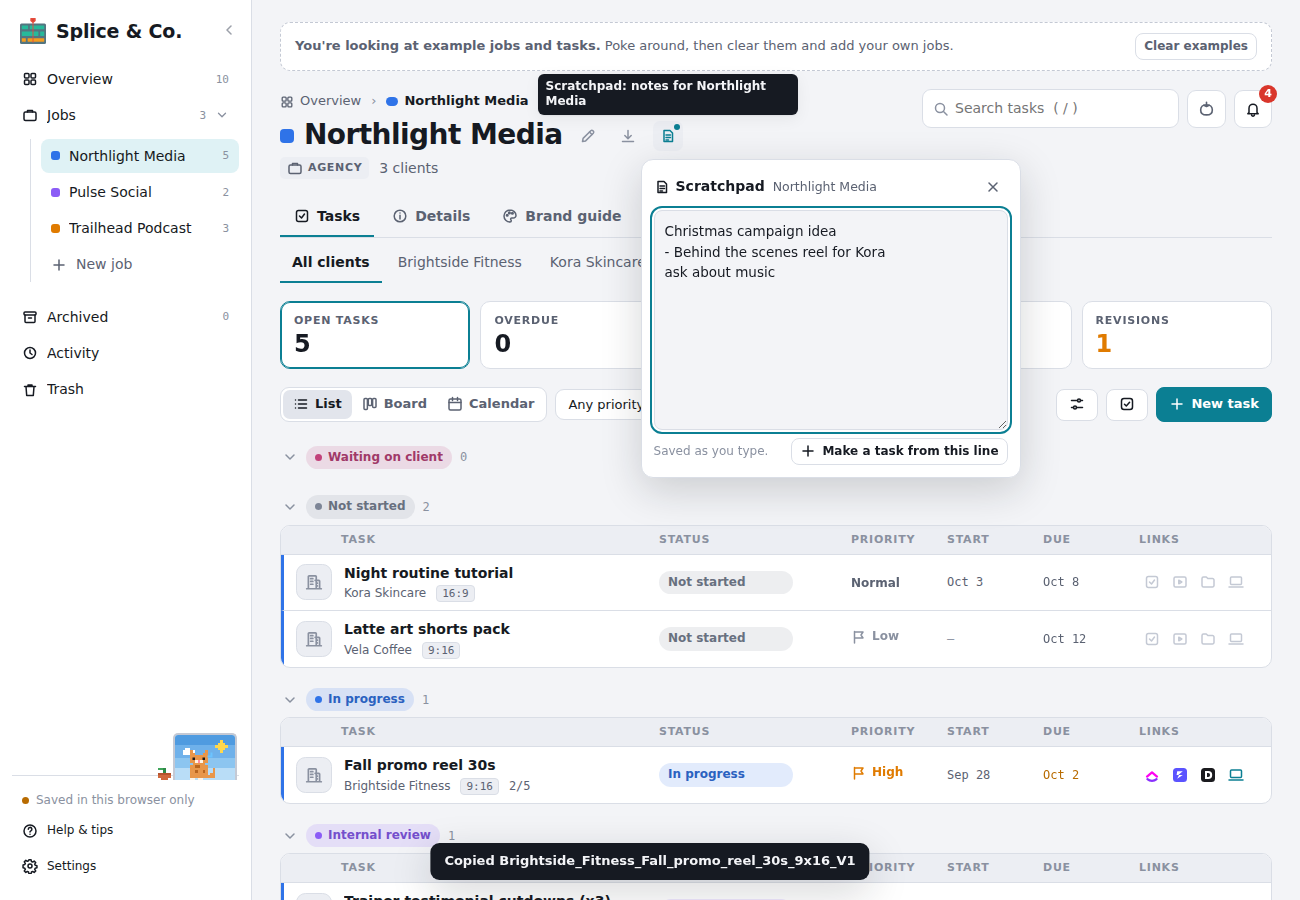
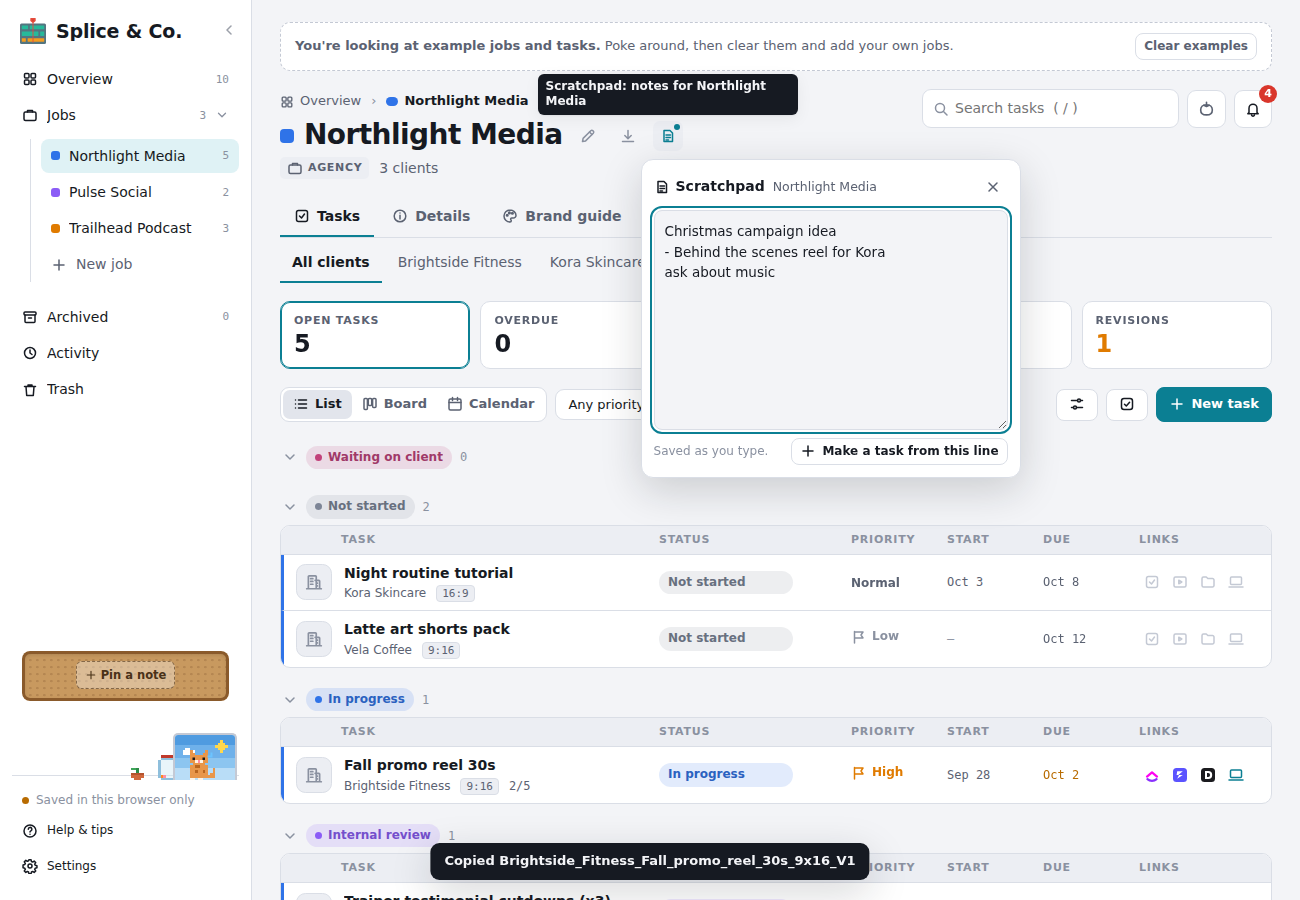
Cat naps on tasks, treat jar, sill pets, cat peeks at updates, sidebar cork board
Claude-Session: https://claude.ai/code/session_01TFxvnWxcLoMJJtEyX7BRSd

Changed region(s): [[0.0, 0.7156, 0.1846, 0.7778], [0.0923, 0.84, 0.1538, 0.8711]]

diff --git a/index.html b/index.html
@@ -1515,6 +1515,46 @@ body.side-mini .office-cat{display:none}
 .sp-foot{display:flex;align-items:center;gap:8px;justify-content:space-between;flex-wrap:wrap}
 @media (max-width:820px){.scratch-pop{left:12px!important;right:12px;width:auto;top:auto!important;bottom:calc(76px + env(safe-area-inset-bottom))}}
 @media (display-mode: window-controls-overlay){.scratch-pop{app-region:no-drag}}
+.sill-jar,.sill-pet{position:relative;padding:0;border:0;background:none;cursor:pointer;flex:none;display:block}
+.sill-jar[hidden],.sill-pet[hidden]{display:none}
+.sill-jar svg{width:17.5px;height:25px;display:block}
+.sill-pet svg{display:block}
+.pet-puppy svg{width:29px;height:27px}.pet-hamster svg{width:23px;height:21px}.pet-fish svg{width:28px;height:26px}
+.pet-tail{transform-box:fill-box;transform-origin:0% 100%;animation:petWag .5s ease-in-out infinite alternate}
+@keyframes petWag{from{transform:rotate(-14deg)}to{transform:rotate(14deg)}}
+.pet-hamster .pet-body{transform-box:fill-box;transform-origin:50% 100%;animation:petBreathe 1.6s ease-in-out infinite}
+@keyframes petBreathe{0%,100%{transform:scale(1,1)}50%{transform:scale(1.03,.97)}}
+.pet-fish{transform-box:fill-box;transform-origin:center;animation:petSwim 7s ease-in-out infinite}
+@keyframes petSwim{0%{transform:translateX(0) scaleX(1)}45%{transform:translateX(3px) scaleX(1)}50%{transform:translateX(3px) scaleX(-1)}95%{transform:translateX(-1px) scaleX(-1)}100%{transform:translateX(0) scaleX(1)}}
+.cat-sill.sleepy .pet-tail,.cat-sill.sleepy .pet-body{animation-play-state:paused}
+:root[data-motion="reduce"] .pet-tail,:root[data-motion="reduce"] .pet-body,:root[data-motion="reduce"] .pet-fish{animation:none}
+.sill-pet .cat-bubble{color:var(--accent)}
+.pet-lock{font-size:calc(18px*var(--ts))}
+.office-cat.away .cat-body,.office-cat.away .cat-notes,.office-cat.away .cat-z{visibility:hidden}
+.nap-cat{position:fixed;z-index:15;width:58px;height:29px;padding:0;border:0;background:none;cursor:pointer}
+.nap-cat svg{width:58px;height:29px;display:block;filter:drop-shadow(0 1px 1px rgba(0,0,0,.25))}
+.nap-cat .cat-z{display:block;right:-8px;top:-10px}
+.nap-cat .cat-bubble{top:-16px}
+.tl-note{position:relative}
+.peek-cat{position:absolute;right:22px;top:-17px;width:25px;height:17px;overflow:hidden;pointer-events:none;z-index:2}
+.peek-cat svg{width:25px;height:17.5px;display:block;transform:translateY(100%)}
+.cork{margin:auto 10px 8px;padding:10px 8px 12px;border-radius:8px;display:flex;flex-wrap:wrap;gap:8px 6px;justify-content:center;align-items:flex-start;
+  background:#c8995f radial-gradient(circle at 20% 30%,rgba(90,50,20,.18) 0 1px,transparent 1.5px) 0 0/7px 7px;box-shadow:inset 0 0 0 3px #8a5a2b,inset 0 2px 6px rgba(0,0,0,.25)}
+.cork.with-cat{margin-bottom:56px}
+.cork .polaroid{width:48px}.cork .polaroid img{width:40px;height:40px}
+.sticky{position:relative;width:62px;min-height:54px;padding:10px 5px 5px;transform:rotate(var(--r));box-shadow:0 2px 4px rgba(0,0,0,.22);display:flex}
+.sticky.s-yellow{background:#fff3a3}.sticky.s-pink{background:#ffc9de}.sticky.s-blue{background:#c7e5ff}.sticky.s-green{background:#cdf2c4}
+.sticky .pin{position:absolute;left:50%;top:-3px;width:8px;height:8px;margin-left:-4px;border-radius:50%;background:#e5484d;box-shadow:0 1px 1px rgba(0,0,0,.35),inset -1px -1px 0 rgba(0,0,0,.2)}
+.st-text{flex:1;border:0;background:none;padding:0;text-align:left;font:500 calc(11px*var(--ts))/1.25 var(--body);color:#3a3326;overflow-wrap:anywhere;cursor:text;min-height:38px}
+.sticky textarea{flex:1;width:100%;border:0;background:rgba(255,255,255,.35);resize:none;font:500 calc(11px*var(--ts))/1.25 var(--body);color:#3a3326;padding:1px 2px;border-radius:2px}
+.st-x{position:absolute;right:1px;top:1px;width:15px;height:15px;padding:0;border:0;background:none;color:#6b5f48;opacity:0;cursor:pointer;display:grid;place-items:center}
+.st-x .i{width:10px;height:10px}
+.sticky:hover .st-x,.st-x:focus-visible{opacity:1}
+@media (hover:none){.st-x{opacity:.7}}
+.cork-add{align-self:center;display:flex;align-items:center;gap:4px;border:1px dashed rgba(60,35,10,.55);background:rgba(255,255,255,.35);color:#4a3218;border-radius:6px;padding:6px 8px;font:600 calc(11.5px*var(--ts)) var(--body);cursor:pointer}
+.cork-add .i{width:12px;height:12px}
+body.side-mini .cork{display:none}
+.cork + .side-foot{margin-top:0}
 .office-cat .cat-phones{display:none}
 .office-cat.focus .cat-phones{display:inline}
 .office-cat.focus .cat-body{animation:catNod 1.1s ease-in-out infinite}
@@ -1849,7 +1889,7 @@ const MONTH_FULL=['January','February','March','April','May','June','July','Augu
 const PREF_DEF={dateRel:false,dateFmt:'md',weekStart:'mon',hideWeekends:false,confetti:true,motion:'system',contrast:'normal',trashDays:30,darkShade:'standard',pillStyle:'tint',tips:true,
   iconWeight:'regular',depth:'soft',sideStyle:'colored',thinScroll:false,toastPos:'bottom',nameWrap:false,doneStyle:'struck',overdueTint:false,statusIcons:false,prioColors:{},logoShape:'rounded',numFont:'mono',readSpacing:'normal',sideCounts:true,
   compactHeader:false,greeting:true,greetName:'',drawerBand:true,boardTint:false,dueStyle:'text',jobProgress:'bar',calGrid:'lines',todayMark:'dot',
-  pomoFocus:25,pomoShort:5,pomoLong:15,pomoEvery:4,pomoAutoBreak:false,pomoAutoFocus:false,pomoSound:'chime',pomoPopup:false,allClear:true,seasonal:true,officeCat:true,catSky:true,catPlant:true,plantGoal:20,catVisitors:true};
+  pomoFocus:25,pomoShort:5,pomoLong:15,pomoEvery:4,pomoAutoBreak:false,pomoAutoFocus:false,pomoSound:'chime',pomoPopup:false,allClear:true,seasonal:true,officeCat:true,catSky:true,catPlant:true,plantGoal:20,catVisitors:true,catNaps:true,catTreats:true,catPeek:true,sillPet:'none',corkBoard:true};
 const pref=k=>{let o=null;try{o=SM}catch(e){/* Settings state not set up yet */}o=o||S.settings?.app||{};return o[k]!==undefined&&o[k]!==null?o[k]:PREF_DEF[k]};
 const reducedMotion=()=>pref('motion')==='reduce'||matchMedia('(prefers-reduced-motion:reduce)').matches;
 function absDate(s){
@@ -2490,7 +2530,7 @@ function render(){
   document.title=(a.name||'').trim()||APP_NAME;pomoTitle();
   const fav=$('#favicon'),want=imgSrc(a.logo)||APP_LOGO;if(fav&&fav.getAttribute('href')!==want){fav.setAttribute('href',want);fav.removeAttribute('type')}
   withFocus(()=>{renderSide();renderMain()});
-  renderBell();renderBulk();applyDrawerW();applySideW();renderTabbar();syncUrl();renderPip();renderPomo();appBadge();
+  renderBell();renderBulk();applyDrawerW();applySideW();renderTabbar();syncUrl();renderPip();renderPomo();appBadge();napPlace();
   if(S.ready&&!SEASON_RAN){SEASON_RAN=true;setTimeout(()=>seasonFx(),900)}
 }
 
@@ -2511,7 +2551,7 @@ function renderSide(){
   }
   html+=`<button class="nav-item nav-new" data-act="new-job"${tt('New job')}>${I.plus}<span class="name">New job</span></button></nav>
   <nav class="nav" aria-label="More"><button class="nav-item ${u.tab==='archived'?'on':''}" data-act="nav" data-tab="archived"${tt('Archived')}>${I.archive}<span class="name">Archived</span><span class="count">${S.ready?archived().length:''}</span></button><button class="nav-item ${u.tab==='activity'?'on':''}" data-act="nav" data-tab="activity"${tt('Activity')}>${I.clock}<span class="name">Activity</span></button><button class="nav-item ${u.tab==='trash'?'on':''}" data-act="nav" data-tab="trash"${tt('Trash')}>${I.trash}<span class="name">Trash</span><span class="count">${S.ready&&trashed().length?trashed().length:''}</span></button></nav>
-  ${u.sideMini?'':photoStripHtml()}
+  ${u.sideMini?'':corkHtml()}
   <div class="side-foot"><span class="save-state" title="${B.mode==='local'?'Saved in this browser only':'Saved to your account'}">${B.mode==='cloud'&&(B.offline||Object.keys(OUT).length)?`<span class="sync-dot local"></span>Offline · ${Object.keys(OUT).length?`${Object.keys(OUT).length} change${Object.keys(OUT).length===1?'':'s'} waiting to sync`:'changes will sync'}`:B.mode==='db'||B.mode==='cloud'?'<span class="sync-dot"></span>Saved to your account':B.mode==='local'?'<span class="sync-dot local"></span>Saved in this browser only':'Loading…'}</span>
     ${B.mode==='cloud'&&B.syncedAt?`<small class="synced" title="Last time this device heard back from your account">Last synced ${syncedAgo()}</small>`:''}
     <button class="nav-item foot-settings ${u.tab==='help'?'on':''}" data-act="nav" data-tab="help"${tt('Help & tips')}>${HELP_IC}<span class="name">Help &amp; tips</span></button>
@@ -3132,7 +3172,7 @@ function renderArchive(){
 
 /* ================= drawer ================= */
 let deleteArmed=false, clearArmed=false;
-function openTask(id,tab){seenTask(id);if(NOTES_EDIT!==id)NOTES_EDIT=null;if(S.tasks[id]&&!S.tasks[id]._draft){S.ui.recent=[id,...(S.ui.recent||[]).filter(x=>x!==id)].slice(0,8);saveUi()}if(S.ui.openTask!==id)TPL={open:false,naming:false,del:null};if(DRAFT&&DRAFT.id!==id)discardDraft();if(S.ui.openTask!==id||tab)S.ui.dtab=tab||'details';if(S.ui.openTask!==id){NEWCL=null;REACT_AT=null;REPLY_AT=null;replyDelArmed=null;EDIT_AT=null;SPLIT=null;if(ATT.task&&ATT.task!==id)attReset()}S.ui.openTask=id;noteDelArmed=null;deleteArmed=false;renderDrawer();$('#drawer').hidden=false;$('#scrim').hidden=false;autosize($('.d-name'));scheduleRender();syncUrl()}
+function openTask(id,tab){seenTask(id);if(NAP&&NAP.id===id)napEnd('wake');if(NOTES_EDIT!==id)NOTES_EDIT=null;if(S.tasks[id]&&!S.tasks[id]._draft){S.ui.recent=[id,...(S.ui.recent||[]).filter(x=>x!==id)].slice(0,8);saveUi()}if(S.ui.openTask!==id)TPL={open:false,naming:false,del:null};if(DRAFT&&DRAFT.id!==id)discardDraft();if(S.ui.openTask!==id||tab)S.ui.dtab=tab||'details';if(S.ui.openTask!==id){NEWCL=null;REACT_AT=null;REPLY_AT=null;replyDelArmed=null;EDIT_AT=null;SPLIT=null;if(ATT.task&&ATT.task!==id)attReset()}S.ui.openTask=id;noteDelArmed=null;deleteArmed=false;renderDrawer();$('#drawer').hidden=false;$('#scrim').hidden=false;autosize($('.d-name'));scheduleRender();syncUrl()}
 function closeDrawer(){flushAll();discardDraft();S.ui.openTask=null;$('#drawer').hidden=true;$('#scrim').hidden=true;scheduleRender();syncUrl()}
 let LSHOW=new Set();
 /* Task activity: the task's log entries plus your own posted updates (kind 'note'), newest first */
@@ -3243,7 +3283,7 @@ const openNotes=t=>{if(!NOTE_OPEN){NOTE_OPEN={};for(const e of logItems())if(e.k
 function postNote(){
   const t=S.tasks[S.ui.openTask],el=$('#note-in');if(!t||!el||ATT.busy)return;
   const v=el.value.trim(),pics=ATT.task===t.id?ATT.note:[];if(!v&&!pics.length){el.focus();return}
-  logAct('note',v,{task:t,extra:pics.length?{pics:[...pics]}:{}});ATT.note=[];el.value='';renderDrawer();$('#note-in')?.focus();
+  logAct('note',v,{task:t,extra:pics.length?{pics:[...pics]}:{}});ATT.note=[];el.value='';renderDrawer();$('#note-in')?.focus();catPeek();
 }
 function deleteNote(at){
   const t=S.tasks[S.ui.openTask];
@@ -3858,7 +3898,7 @@ function seasonFx(force){
    Sits and blinks; sleeps during focus-timer breaks and after 3 minutes with no activity; stretches when a task is done
    (celebrate() calls catStretch); purrs when clicked. One element (CAT) is moved back into each redrawn sidebar. */
 let CAT=null,CAT_PM='',CAT_WAKE=0,CAT_ACT=Date.now(),CAT_OVER=0,VISITOR=null;
-const CAT_PAL={o:'#e8964a',d:'#b8651f',e:'#1b1b1b',p:'#ff8fa3',w:'#fff4e6',k:'#5a3a22',R:'#d62839',W:'#ffffff',Y:'#f5c542',B:'#4c8dff',K:'#262130',V:'#8e4bd6'};
+const CAT_PAL={o:'#e8964a',d:'#b8651f',e:'#1b1b1b',p:'#ff8fa3',w:'#fff4e6',k:'#5a3a22',R:'#d62839',W:'#ffffff',Y:'#f5c542',B:'#4c8dff',K:'#262130',V:'#8e4bd6',b:'#a86b32',n:'#6e4320',E:'#1b1b1b',h:'#e8b86a',c:'#fff1dc',g:'#cfe8f5',G:'#8fbfdc',f:'#ff8a1f',F:'#d95a00',q:'#9fd4f2',s:'#e3cf9a',L:'#3aa655',T:'#c0392b',r:'#f5b041'};
 function pixSvg(rows,cls,extra=''){let r='',eyes='';rows.forEach((row,y)=>{for(let x=0;x<row.length;x++){const c=row[x];if(c==='.')continue;if(c==='e'){r+=`<rect x="${x}" y="${y}" width="1" height="1" fill="${CAT_PAL.o}"/>`;eyes+=`<rect x="${x}" y="${y}" width="1" height="1" fill="${CAT_PAL.e}" class="cat-eye"/>`;continue}let n=1;while(row[x+n]===c)n++;r+=`<rect x="${x}" y="${y}" width="${n}" height="1" fill="${CAT_PAL[c]}"/>`;x+=n-1}});return `<g class="${cls}">${r}${extra}${eyes?`<g class="cat-eyes">${eyes}</g>`:''}</g>`}
 const px1=(x,y,c,cls)=>`<rect x="${x}" y="${y}" width="1" height="1" fill="${c}"${cls?` class="${cls}"`:''}/>`;
 /* mood overlays: sweat drop when something is overdue, smile + blush on an all-clear day */
@@ -3910,20 +3950,21 @@ let SILL=null;
 function placeCat(){
   if(!pref('officeCat')){SILL?.remove();return}
   const f=$('#side .side-foot');if(!f)return;
-  if(!SILL){SILL=document.createElement('div');SILL.className='cat-sill';SILL.innerHTML='<span class="sill-plant" aria-hidden="false"></span>';SILL.appendChild(catEl())}
-  if(SILL.parentNode!==f)f.prepend(SILL);catTick();plantDraw();visitSoon(true);
+  if(!SILL){SILL=document.createElement('div');SILL.className='cat-sill';SILL.innerHTML='<span class="sill-plant" aria-hidden="false"></span><button type="button" class="sill-jar" data-act="cat-feed" hidden></button><button type="button" class="sill-pet" data-act="pet-poke" hidden></button>';SILL.appendChild(catEl())}
+  if(SILL.parentNode!==f)f.prepend(SILL);catTick();plantDraw();jarDraw();petDraw();visitSoon(true);napSoon(true);
 }
 function catTick(){
   if(!CAT||!CAT.isConnected)return;
   catDraw();
   if(S.ready){const t0=today(),open=live().filter(t=>!isClosed(t)),over=open.filter(t=>t.due&&t.due<t0).length;CAT_OVER=over;
-    CAT.classList.toggle('worried',over>0);CAT.classList.toggle('happy',!over&&open.length>0&&!open.some(t=>t.due===t0));plantDraw()}
+    CAT.classList.toggle('worried',over>0);CAT.classList.toggle('happy',!over&&open.length>0&&!open.some(t=>t.due===t0));plantDraw();jarDraw();petDraw()}
   const T=pomoState(),now=Date.now(),focus=T.run==='running'&&T.mode==='focus',pm=T.run+'|'+T.mode;
   /* a focus session just ended and a break began: stretch, then nap through the break */
   if(CAT_PM.startsWith('running|focus')&&T.mode!=='focus'){CAT_PM=pm;catStretch('stretch~')}
   CAT_PM=pm;
   const sleep=now>CAT_WAKE&&((T.run==='running'&&T.mode!=='focus')||(!focus&&now-CAT_ACT>180000));
-  CAT.classList.toggle('sleep',sleep);CAT.classList.toggle('focus',focus&&!sleep);
+  CAT.classList.toggle('sleep',sleep);CAT.classList.toggle('focus',focus&&!sleep);CAT.classList.toggle('away',!!NAP);SILL?.classList.toggle('sleepy',sleep);
+  if(NAP&&focus)napEnd('back');
   CAT.title=sleep?'Shh… the cat is napping (click to pet)':focus?'Focusing with you (click to pet)':'Pet the cat';
 }
 ['pointerdown','keydown'].forEach(ev=>document.addEventListener(ev,()=>{CAT_ACT=Date.now()},{passive:true,capture:true}));
@@ -3999,6 +4040,142 @@ function visit(kind){
     const lk=setInterval(look,400);a.onfinish=()=>{clearInterval(lk);v.remove();if(VISITOR===v)VISITOR=null;catLook(null)};
   }
 }
+/* ================= treats jar: a treat per finished task; click to feed the cat (settings/app.catFed) ================= */
+function saveApp(p){if(S.settings.app)patch('settings','app',p);else create('settings',p,'app')}
+const doneTotal=()=>Object.values(S.tasks).filter(t=>!t._draft&&!t.deleted&&t.doneAt).length;
+const treatsLeft=()=>Math.max(0,doneTotal()-(+appSettings().catFed||0));
+function jarDraw(){
+  const el=SILL?.querySelector('.sill-jar');if(!el)return;
+  if(!pref('catTreats')){el.hidden=true;return}el.hidden=false;
+  const n=treatsLeft(),key=String(Math.min(n,25));
+  el.title=n?`${n} treat${n===1?'':'s'} in the jar · click to feed the cat`:'The treat jar is empty. Finish a task to earn a treat.';
+  el.setAttribute('aria-label',el.title);
+  if(el._key===key)return;el._key=key;
+  let r=`<rect x="1" y="0" width="5" height="1" fill="${CAT_PAL.T}"/><rect x="1" y="1" width="5" height="1" fill="${CAT_PAL.G}"/><rect x="0" y="2" width="1" height="7" fill="${CAT_PAL.G}"/><rect x="6" y="2" width="1" height="7" fill="${CAT_PAL.G}"/><rect x="1" y="9" width="5" height="1" fill="${CAT_PAL.G}"/><rect x="1" y="2" width="5" height="7" fill="${CAT_PAL.g}" opacity=".45"/>`;
+  const cols=[CAT_PAL.f,CAT_PAL.b,CAT_PAL.r,CAT_PAL.p];
+  for(let i=0;i<Math.min(n,25);i++){const x=1+i%5,y=8-Math.floor(i/5);r+=px1(x,y,cols[(i*7+Math.floor(i/5))%4])}
+  el.innerHTML=`<svg viewBox="0 0 7 10" shape-rendering="crispEdges" aria-hidden="true">${r}</svg>`;
+}
+function catFeed(){
+  const n=treatsLeft();
+  if(!n){catBubble('no treats…');return}
+  saveApp({catFed:(+appSettings().catFed||0)+1});jarDraw();haptic(15);
+  CAT_WAKE=Date.now()+30000;CAT_ACT=Date.now();catTick();
+  const jar=SILL?.querySelector('.sill-jar');if(jar&&!reducedMotion())jar.animate([{transform:'rotate(0)'},{transform:'rotate(-12deg)'},{transform:'rotate(0)'}],{duration:350});
+  setTimeout(()=>{if(!CAT)return;if(!reducedMotion())CAT.querySelector('.cat-body').animate([{transform:'translateY(0)'},{transform:'translateY(-7px)'},{transform:'translateY(0)'},{transform:'translateY(-4px)'},{transform:'translateY(0)'}],{duration:700,easing:'ease-out'});catBubble(['nom nom ♥','yum!','mrrp ♥','*crunch*'][Math.floor(Math.random()*4)])},180);
+}
+/* ================= a friend on the sill (pref sillPet), unlocked after 30 days of use ================= */
+const PETS={
+  puppy:{w:13,h:12,rows:['.nn.....nn...','.nbbbbbbbn...','nnbEbbbEbnn..','nnbbcccbbnn..','.n.bcEcb.n...','....ccc......','...bbbbb.....','..bbcccbb....','..bbcccbb....','..bbcccbb....','..bbbbbbb....','..cc.bb.cc...'],tail:[[9,8],[10,7],[11,6]],say:['woof!','arf!','*wag wag*','🐾'],label:'Puppy'},
+  hamster:{w:10,h:9,rows:['..........','..h...h...','.hhhhhhh..','hhEhhhhhh.','phhhhhccc.','.hhhhccccc','.hhhhccchh','..hhhhhhh.','..p.p..p..'],say:['squeak!','*nibble*','eep!','🌻'],label:'Hamster'},
+  fish:{w:12,h:11,rows:['............','...GGGGGG...','..G......G..','.GqqqqqqqqG.','GqqqqqqqqqqG','GqqqqqqqqqqG','GqqqqqqqqqqG','GqLqqqqqqqqG','GqLsssssssqG','.GssssssssG.','..GGGGGGGG..'],say:['blub','blub blub','○ ○','🫧'],label:'Goldfish'}
+};
+const PET_IDS=['none','puppy','hamster','fish'];
+function daysUsed(){let first=Infinity;for(const t of Object.values(S.tasks))if(!t.example&&!t._draft&&t.created)first=Math.min(first,+new Date(t.created));return first===Infinity?0:Math.floor((Date.now()-first)/864e5)}
+const petUnlocked=()=>daysUsed()>=30;
+function petDraw(){
+  const el=SILL?.querySelector('.sill-pet');if(!el)return;
+  const k=pref('sillPet'),P=PETS[k];
+  if(!P||!petUnlocked()){el.hidden=true;el._key='';return}el.hidden=false;
+  el.className='sill-pet pet-'+k;el.title=`${P.label} (click to say hi)`;el.setAttribute('aria-label',el.title);
+  if(el._key===k)return;el._key=k;
+  const body=P.rows.map((row,y)=>[...row].map((c,x)=>c==='.'?'':px1(x,y,CAT_PAL[c]||'#000')).join('')).join('');
+  let extra='';
+  if(k==='puppy')extra=`<g class="pet-tail">${P.tail.map(([x,y])=>px1(x,y,CAT_PAL.b)).join('')}</g>`;
+  if(k==='fish')extra=`<g class="pet-fish">${px1(4,4,CAT_PAL.f)+px1(5,4,CAT_PAL.f)+px1(3,5,CAT_PAL.f)+px1(4,5,CAT_PAL.E)+px1(5,5,CAT_PAL.f)+px1(6,5,CAT_PAL.f)+px1(7,4,CAT_PAL.F)+px1(7,6,CAT_PAL.F)+px1(4,6,CAT_PAL.f)+px1(5,6,CAT_PAL.f)}</g>`;
+  el.innerHTML=`<svg viewBox="0 0 ${P.w} ${P.h}" shape-rendering="crispEdges" aria-hidden="true"><g class="pet-body">${body}${extra}</g></svg>`;
+}
+function petPoke(){
+  const el=SILL?.querySelector('.sill-pet'),P=PETS[pref('sillPet')];if(!el||!P)return;
+  const b=document.createElement('span');b.className='cat-bubble';b.textContent=P.say[Math.floor(Math.random()*P.say.length)];el.appendChild(b);
+  if(!reducedMotion()){b.animate([{opacity:0,transform:'translate(-50%,4px)'},{opacity:1,transform:'translate(-50%,-4px)',offset:.2},{opacity:1,transform:'translate(-50%,-8px)',offset:.8},{opacity:0,transform:'translate(-50%,-14px)'}],{duration:1500,easing:'ease-out'});
+    el.querySelector('svg')?.animate(pref('sillPet')==='fish'?[{transform:'rotate(0)'},{transform:'rotate(-5deg)'},{transform:'rotate(5deg)'},{transform:'rotate(0)'}]:[{transform:'translateY(0)'},{transform:'translateY(-6px)'},{transform:'translateY(0)'}],{duration:450,easing:'ease-out'})}
+  setTimeout(()=>b.remove(),1500);haptic(10);
+  if(CAT&&!CAT.classList.contains('sleep')){const r=el.getBoundingClientRect();catLook(r.left+r.width/2,r.top+r.height/2);setTimeout(()=>catLook(null),1200)}
+}
+/* ================= the cat naps on a task now and then (pref catNaps) =================
+   It leaves the sill, curls up on a visible list row or board card for about 90 seconds, and hops back
+   when that task is opened, when you click it, or when a focus session starts. */
+let NAP=null,napT=0;
+function napSoon(first){if(napT)return;napT=setTimeout(()=>{napT=0;napStart()},first?(4+Math.random()*4)*60000:(15+Math.random()*15)*60000)}
+function napTargets(){
+  const H=innerHeight,out=[];
+  for(const el of document.querySelectorAll('#main .row[data-id], #main .card[data-id]')){const t=S.tasks[el.dataset.id];if(!t||isClosed(t))continue;const r=el.getBoundingClientRect();if(r.width>120&&r.top>90&&r.bottom<H-80&&r.right<innerWidth)out.push(el)}
+  return out;
+}
+function napStart(){
+  const T=pomoState(),retry=()=>{if(!napT)napT=setTimeout(()=>{napT=0;napStart()},60000);return false};
+  if(!pref('officeCat')||!pref('catNaps')){napSoon();return false}
+  if(document.hidden||!S.ready||NAP||VISITOR||!CAT?.isConnected||(T.run==='running'&&T.mode==='focus')||!$('#drawer').hidden||!$('#modal').hidden)return retry();
+  const els=napTargets();if(!els.length)return retry();
+  napSoon();
+  const row=els[Math.floor(Math.random()*els.length)],id=row.dataset.id;
+  const el=document.createElement('button');el.type='button';el.className='nap-cat';el.title='The cat is napping on this task (click to wake it)';el.setAttribute('aria-label',el.title);
+  el.innerHTML=`<svg viewBox="0 3 16 8" shape-rendering="crispEdges" aria-hidden="true">${pixSvg(CAT_SLEEP,'nap-body')}</svg><span class="cat-z" aria-hidden="true"><i>z</i><i>z</i><i>Z</i></span>`;
+  el.addEventListener('click',e=>{e.stopPropagation();napEnd('wake')});
+  document.body.appendChild(el);
+  NAP={id,el,end:setTimeout(()=>napEnd('back'),90000)};
+  napPlace();catTick();
+  if(!reducedMotion())el.animate([{opacity:0,transform:'translateY(-10px)'},{opacity:1,transform:'translateY(0)'}],{duration:450,easing:'ease-out'});
+  return true;
+}
+function napPlace(){
+  if(!NAP)return;
+  const row=[...document.querySelectorAll(`#main [data-id="${CSS.escape(NAP.id)}"]`)].find(x=>x.matches('.row,.card'));
+  if(!row){napEnd('back',true);return}
+  const r=row.getBoundingClientRect(),card=row.classList.contains('card');
+  if(r.bottom<60||r.top>innerHeight){NAP.el.hidden=true;return}NAP.el.hidden=false;
+  let x=card?r.right-66:r.left+r.width*.6;
+  if(!card){const nm=row.querySelector('.t-name'),st=row.querySelector('.pill');if(nm){const rg=document.createRange();rg.selectNodeContents(nm);const tr=rg.getBoundingClientRect(),lim=(st?st.getBoundingClientRect().left:r.right)-66;x=Math.min(tr.right+14,lim)}}
+  NAP.el.style.left=Math.round(x)+'px';
+  NAP.el.style.top=Math.round(r.top-22)+'px';
+}
+function napEnd(how,quiet){
+  const n=NAP;if(!n)return;NAP=null;clearTimeout(n.end);
+  const done=()=>{n.el.remove();catTick();if(!quiet&&CAT?.isConnected){if(!reducedMotion())CAT.querySelector('.cat-body').animate([{transform:'translateY(-8px)'},{transform:'translateY(0)'}],{duration:300,easing:'ease-out'});catBubble(how==='wake'?'mrrp!':'*yawn*')}};
+  if(quiet||reducedMotion()){done();return}
+  if(how==='wake'){const b=document.createElement('span');b.className='cat-bubble';b.textContent='!';n.el.appendChild(b)}
+  n.el.animate([{transform:'translateY(0)',opacity:1},{transform:'translateY(-14px)',opacity:1,offset:.4},{transform:'translate(-30px,-40px)',opacity:0}],{duration:600,easing:'ease-in'}).onfinish=done;
+}
+document.addEventListener('scroll',()=>{if(NAP)napPlace()},{capture:true,passive:true});
+addEventListener('resize',()=>{if(NAP)napPlace()});
+/* ================= the cat peeks over a new update (pref catPeek) ================= */
+function catPeek(){
+  if(!pref('officeCat')||!pref('catPeek'))return;
+  setTimeout(()=>{
+    const note=$('#drawer .tl-note');if(!note)return;
+    const w=document.createElement('span');w.className='peek-cat';w.setAttribute('aria-hidden','true');
+    w.innerHTML=`<svg viewBox="1 0 10 7" shape-rendering="crispEdges">${pixSvg(CAT_SIT.slice(0,7),'peek-head')}</svg>`;
+    w.querySelectorAll('.cat-eyes').forEach(g=>g.setAttribute('transform','translate(-.35,.45)'));
+    note.appendChild(w);const svg=w.firstChild;
+    if(reducedMotion()){setTimeout(()=>w.remove(),2500);return}
+    svg.animate([{transform:'translateY(100%)'},{transform:'translateY(8%)',offset:.18},{transform:'translateY(8%)',offset:.5},{transform:'translateY(0)',offset:.56},{transform:'translateY(8%)',offset:.62},{transform:'translateY(8%)',offset:.84},{transform:'translateY(100%)'}],{duration:3600,easing:'ease-in-out'}).onfinish=()=>w.remove();
+  },60);
+}
+/* ================= cork board in the sidebar (pref corkBoard): your photos plus sticky notes (settings/app.stickies) ================= */
+const STICKY_COLS=['yellow','pink','blue','green'],STICKY_TILT=[-4,3,-2,5,-5,2];
+let STICKY_EDIT=null;
+const stickies=()=>(appSettings().stickies||[]).slice(0,6);
+function saveStickies(list){saveApp({stickies:list});renderSide()}
+function corkHtml(){
+  if(!pref('corkBoard'))return photoStripHtml();
+  const ps=photos(),st=stickies();
+  return `<div class="cork ${pref('officeCat')?'with-cat':''}" aria-label="Cork board">
+    ${ps.map((v,i)=>`<button type="button" class="polaroid" data-act="photo-view" data-i="${i}" style="--r:${PHOTO_TILT[i]}deg" title="Open photo"><img src="${esc(imgSrc(v)||'')}" alt="" loading="lazy"></button>`).join('')}
+    ${st.map((n,i)=>`<div class="sticky s-${esc(n.color||'yellow')}" style="--r:${STICKY_TILT[i%6]}deg"><i class="pin" aria-hidden="true"></i>${STICKY_EDIT===n.id?`<textarea id="sticky-in" data-fk="sticky-in" data-sid="${esc(n.id)}" maxlength="80" rows="3" aria-label="Sticky note">${esc(n.text||'')}</textarea>`:`<button type="button" class="st-text" data-act="sticky-edit" data-id="${esc(n.id)}" title="Edit note">${esc(n.text||'')}</button><button type="button" class="st-x" data-act="sticky-rm" data-id="${esc(n.id)}" title="Take down this note" aria-label="Take down this note">${I.x}</button>`}</div>`).join('')}
+    ${st.length<6?`<button type="button" class="cork-add" data-act="sticky-add" title="Pin a sticky note">${I.plus}${st.length?'':'Pin a note'}</button>`:''}
+  </div>`;
+}
+function stickyAdd(){const st=stickies(),used=st.map(n=>n.color),color=STICKY_COLS.find(c=>!used.includes(c))||STICKY_COLS[st.length%4],id=uid();STICKY_EDIT=id;saveStickies([...st,{id,text:'',color}]);setTimeout(()=>$('#sticky-in')?.focus(),20)}
+function stickySave(cancel){
+  const el=$('#sticky-in'),id=STICKY_EDIT;if(!id)return;STICKY_EDIT=null;
+  const st=stickies(),n=st.find(x=>x.id===id);if(!n){renderSide();return}
+  const v=cancel?n.text:(el?.value||'').trim();
+  saveStickies(v?st.map(x=>x.id===id?{...x,text:v}:x):st.filter(x=>x.id!==id));
+}
+function stickyRm(id){const st=stickies(),n=st.find(x=>x.id===id);if(!n)return;saveStickies(st.filter(x=>x.id!==id));toast('Note taken down',{label:'Undo',fn:()=>saveStickies([...stickies(),n].slice(0,6))})}
+document.addEventListener('focusout',e=>{if(e.target.id==='sticky-in'&&STICKY_EDIT)setTimeout(()=>{if(document.activeElement?.id!=='sticky-in')stickySave()},0)});
+document.addEventListener('keydown',e=>{if(e.target.id!=='sticky-in')return;e.stopPropagation();if(e.key==='Enter'&&!e.shiftKey){e.preventDefault();e.target.blur()}else if(e.key==='Escape'){e.preventDefault();stickySave(true)}},true);
 /* photo strip in the sidebar: up to 4 of your own pictures (settings/app.photos), saved right away */
 const PHOTO_TILT=[-6,4,-3,6];
 function photos(){return (appSettings().photos||[]).filter(Boolean).slice(0,4)}
@@ -4233,7 +4410,7 @@ const HELP=[
  ['Getting work done','Type it all in the name',`When you add a task, type the client, the day and the priority right in the name: “Reel 7 Band fri !high”. A line under the name shows what will be picked up, and it's filled in when you save. Days: today, tomorrow, mon–sun, +3d, in 2 weeks, oct 2, 10/2. Priority: !urgent, !high, !low. Use @name to pick a client or job by its first letters.`,null],
  ['Getting work done','Focus timer',`A Pomodoro timer top-right, next to the bell: 25 minutes of focus, then a 5-minute break, and a 15-minute break after every 4 (change them in Settings). Press P or the tomato at the top of a task to focus on that task; each finished session adds 🍅 1 to it and a line to its activity. The same timer shows on all your devices and in the floating task window. Turn on the desktop pop-up in Settings to be told when time's up while you're in Premiere.`,['pomo','Focus timer']],
  ['Getting work done','Recent project folders',`On your Mac, quick search (⌘K) lists the last 5 project folders you opened from the app, from tasks, jobs or notes. Pick one to open it in Finder again; type to search older ones by task, job or folder name.`,null],
- ['Look and feel','Little extras',`An “All clear” moment on the Overview when nothing is overdue or due today; emoji reactions on client updates (the smiley under an update); film-look color schemes (Portra, Fuji, Noir, Teal & Orange, Technicolor); the office cat on the sidebar (it wears headphones and nods along during a focus session, naps during breaks and when you're away, stretches when you finish a task, and purrs when you click it; a little window behind it shows the sky for your time of day, and it dresses up in December, on New Year's Day and on Halloween; it sweats when something's overdue, smiles on all-clear days and watches your mouse; a plant on the sill grows a leaf per task done this month; birds and butterflies drop by); a photo strip of your own pictures in the sidebar (add them in Appearance → Details); and seasonal touches: a Christmas countdown from September, snow in December, fireworks on New Year's Day, bats on Halloween and hearts on Valentine's. Turn them off in Appearance.`,['appearance','Appearance']],
+ ['Look and feel','Little extras',`An “All clear” moment on the Overview when nothing is overdue or due today; emoji reactions on client updates (the smiley under an update); film-look color schemes (Portra, Fuji, Noir, Teal & Orange, Technicolor); the office cat on the sidebar (it wears headphones and nods along during a focus session, naps during breaks and when you're away, stretches when you finish a task, and purrs when you click it; a little window behind it shows the sky for your time of day, and it dresses up in December, on New Year's Day and on Halloween; it sweats when something's overdue, smiles on all-clear days and watches your mouse; a plant on the sill grows a leaf per task done this month; birds and butterflies drop by; now and then it naps on one of your tasks until you open it; it peeks over the updates you post; a treat jar fills with a treat per finished task (click it to feed the cat); and after 30 days a puppy, hamster or goldfish can join it on the sill); a cork board in the sidebar with your photos and sticky notes (click + to pin one, click a note to edit it); a photo strip of your own pictures in the sidebar (add them in Appearance → Details); and seasonal touches: a Christmas countdown from September, snow in December, fireworks on New Year's Day, bats on Halloween and hearts on Valentine's. Turn them off in Appearance.`,['appearance','Appearance']],
  ['Getting work done','Installed app (Chrome)',`Install Splice & Co. from Chrome's address bar (the install icon) to get its own window and Dock icon. The Dock icon shows how many tasks are overdue or due today; right-click it for New task, Overview, Calendar and Quick search. The app's colors reach into the title bar (Chrome's chevron at the top right switches that off). To have task links from Slack or email open in the app, turn on "Open supported links" in the app's settings (⋮ menu in the app window → App info or Settings).`,null],
  ['Getting work done','Phone: pull the task down to close',`On a phone, a task opens as a sheet from the bottom. Pull it down from the top (or anywhere when it's scrolled to the top) to close it; swipe sideways to go to the next or previous task.`,null],
  ['Getting work done','Pull to refresh',`At the top of any page, pull down (on a phone or tablet) or keep scrolling up with two fingers on the trackpad. When it says “Release to refresh”, let go and the app reloads with the latest data and any app updates.`,null],
@@ -4509,6 +4686,11 @@ function renderSettings(){
       ${SM.officeCat?prefRow('catPlant','Windowsill plant',[[true,'Show'],[false,'Hide']],'Grows a leaf for each task done this month; droops when 3+ tasks are overdue'):''}
       ${SM.officeCat&&SM.catPlant?`<div class="pref-row"><label class="pr-l" for="s-plantGoal">Plant blooms at<small>Tasks done in a month</small></label><input type="number" id="s-plantGoal" class="pr-input pr-num" min="1" max="500" data-pk="plantGoal" data-fk="s-plantGoal" value="${esc(String(SM.plantGoal))}"></div>`:''}
       ${SM.officeCat?prefRow('catVisitors','Visitors',[[true,'On'],[false,'Off']],'A bird or butterfly drops by now and then (not at night)'):''}
+      ${SM.officeCat?prefRow('catNaps','Naps on your tasks',[[true,'On'],[false,'Off']],'Now and then the cat curls up on a task for a minute; open the task to wake it'):''}
+      ${SM.officeCat?prefRow('catTreats','Treat jar',[[true,'Show'],[false,'Hide']],'Each finished task earns a treat; click the jar to feed the cat'):''}
+      ${SM.officeCat?prefRow('catPeek','Cat reads your updates',[[true,'On'],[false,'Off']],'Peeks over a new update when you post it'):''}
+      ${SM.officeCat?(petUnlocked()?prefRow('sillPet','A friend on the sill',[['none','None'],['puppy','Puppy'],['hamster','Hamster'],['fish','Goldfish']],'Click it to say hi'):`<div class="pref-row"><span class="pr-l">A friend on the sill<small>A puppy, hamster or goldfish to keep the cat company. Unlocks after 30 days of using ${esc((appSettings().name||'').trim()||APP_NAME)} (${Math.max(1,30-daysUsed())} day${30-daysUsed()===1?'':'s'} to go).</small></span><span class="pet-lock" aria-hidden="true">🔒</span></div>`):''}
+      ${prefRow('corkBoard','Cork board',[[true,'Show'],[false,'Hide']],'Your photos and sticky notes pinned to a cork board in the sidebar')}
       ${photoSettingsHtml()}
       <p class="pref-group">Dates</p>
       ${prefPick('dateRel','Dates in lists and cards',[[false,absDate(addDays(today(),3)),'The date itself'],[true,'in 3 days','How far away, like “2 days late”']])}
@@ -5404,6 +5586,11 @@ document.addEventListener('click',e=>{
     case 'bulk-archive':{const ids=[...SEL];SEL.clear();SELMODE=false;archiveTasks(ids);render();break}
     case 'bulk-delete':{if(!bulkDelArmed){bulkDelArmed=true;renderBulk();break}const ids=[...SEL];SEL.clear();SELMODE=false;bulkDelArmed=false;deleteTasks(ids);break}
     case 'jump-go': jumpGo(+el.dataset.k);break;
+    case 'cat-feed': catFeed();break;
+    case 'pet-poke': petPoke();break;
+    case 'sticky-add': stickyAdd();break;
+    case 'sticky-edit': STICKY_EDIT=el.dataset.id;renderSide();setTimeout(()=>{const i=$('#sticky-in');if(i){i.focus();i.setSelectionRange(i.value.length,i.value.length)}},20);break;
+    case 'sticky-rm': stickyRm(el.dataset.id);break;
     case 'scratch': if(SCRATCH===el.dataset.job)closeScratch();else openScratch(el.dataset.job);break;
     case 'scratch-close': closeScratch();break;
     case 'scratch-task': scratchToTask();break;

diff --git a/CLAUDE.md b/CLAUDE.md
@@ -141,6 +141,11 @@ UI preferences (tab, view, per-tab view `views`, collapsed groups, sort, hidden 
 - **Seasonal touches (`season / seasonNote / seasonFx / SEASON_COLS`, pref `seasonal`):** the greeting gets a line: a Christmas countdown from September to Dec 24 (Filipino "ber months" style), Merry Christmas, Happy New Year, Halloween, Valentine's. Once a day when the app opens (`cutroom.season`, `SEASON_RAN`) an overlay plays: December snow, New Year fireworks, Halloween bats, Valentine hearts; `celebrate()` uses the day's confetti colors. Skipped with reduced motion. Test with Playwright's `page.clock.install({time})`.
 - **Office cat (`CAT`, `catEl / placeCat / catTick / catStretch / catPurr`, pref `officeCat`):** a pixel cat (SVG rects from `CAT_SIT / CAT_SLEEP` rows via `pixSvg`) perched on the sidebar footer's top border. `renderSide()` rebuilds the sidebar, so `placeCat()` moves the one persistent element back in (motion uses Web Animations so it survives the move). During a running focus session it wears headphones (`CAT_PHONES`, `.focus`: nods with ♪ notes, never falls asleep), and stretches ("stretch~") when a focus session ends (`CAT_PM` transition in `catTick`, so every device's cat does it). It blinks; sleeps (zzz) during focus-timer breaks or after 3 minutes with no pointer/key activity (`CAT_ACT`); `celebrate()` calls `catStretch()` on Done (wakes it for 20s, ♥ bubble); clicking purrs (bubble, wiggle, a soft synthesized purr unless the timer sound is Off). Hidden in the icon-rail sidebar. `catDraw()` (re-run by `catTick`, redraws only when its key changes) puts a pixel window behind it (`skySvg(skyPhase())`, pref `catSky`: dawn 5–7, day 7–17, dusk 17–19, night with twinkling stars and a crescent moon, by this device's clock) and a hat on the right days when `seasonal` is on (`CAT_HATS` via `catHat()`: Santa hat all December, party hat on Jan 1, witch hat on Oct 31), drawn in both poses. Motion targets `.cat-body`. The cat sits in `SILL` (`.cat-sill`, the persistent wrapper `placeCat()` moves back into each redrawn footer) next to the windowsill plant.
 - **Cat moods, plant, visitors (`catTick`, `catLook`, `plantDraw`, `visit / visitSoon`):** `catTick` sets `.worried` (sweat drop) when any open task is overdue and `.happy` (smile + blush) on an all-clear day. Eyes are drawn on top of body pixels in `.cat-eyes`, which `catLook(x,y)` shifts toward the pointer (within ~380px) or a visitor. The plant (`.sill-plant`, pref `catPlant`) grows a leaf per 10% of `plantGoal` tasks done this month (by `doneAt`), blooms at the goal and droops with 3+ overdue. Visitors (pref `catVisitors`, not at night, tab visible, no reduced motion): first 1–3 min after load, then every 6–12 min, a bird lands on the window frame for ~28s (click to shoo) or a butterfly flutters past.
+- **Treat jar (`jarDraw / catFeed`, pref `catTreats`):** a pixel jar on the sill (`.sill-jar`) holding one treat per finished task (`doneTotal()`, tasks with `doneAt`) minus `settings/app.catFed`; clicking feeds the cat (hop + bubble) and adds 1 to `catFed` (`saveApp`).
+- **Sill pet (`PETS`, `petDraw / petPoke`, pref `sillPet` 'none'|'puppy'|'hamster'|'fish'):** unlocks after 30 days of use (`daysUsed()`, from the oldest non-example task's `created`); until then Settings shows a locked row with the days to go. Puppy wags (`.pet-tail`), hamster breathes, the goldfish swims (`.pet-fish`); animations pause while the cat sleeps (`.cat-sill.sleepy`). Click for a bubble.
+- **Naps on tasks (`NAP`, `napSoon / napStart / napPlace / napEnd`, pref `catNaps`):** 4–8 min after load, then every 15–30 min (retries each minute while blocked: panel or dialog open, visitor, focus session), the cat leaves the sill (`.office-cat.away`) and sleeps as a fixed `.nap-cat` on the top edge of a visible open list row (just after the name) or board card for 90s. `napPlace()` runs at the end of `render()` and on scroll/resize; opening that task (`openTask`), clicking it or starting a focus session sends it back.
+- **Cat peeks at updates (`catPeek`, pref `catPeek`):** after `postNote()` a clipped cat head (`.peek-cat`, the top rows of `CAT_SIT`) rises over the newest update's top edge for ~3.6s.
+- **Cork board (`corkHtml`, `stickies / stickyAdd / stickySave / stickyRm`, `STICKY_EDIT`, pref `corkBoard`):** replaces the plain photo strip in the sidebar with a cork board holding the photos plus up to 6 sticky notes (`settings/app.stickies [{id,text,color}]`, colors yellow/pink/blue/green). + pins a new note in edit mode; click a note to edit (Enter or click away saves, empty removes it, Esc cancels); × takes it down with Undo.
 - **Photo strip (`photos / photoStripHtml / photoSettingsHtml / addPhoto / savePhotos`, `#photo-in`):** up to 4 of the user's pictures as tilted Polaroids in the sidebar above the footer (not in the icon rail), at the user's request (not on the Overview). Added and removed in Settings → Appearance → Details (uploads with `storeImage(file,900,480,'image/jpeg')`, saved to `settings/app.photos` right away); clicking one opens the lightbox.
 - **Loading lines (`LOAD_LINES / LOAD_LINE`):** the "Loading your tasks" screen shows a spinning film reel and a random editor joke ("Rendering at 1 frame per hour…").
 - **Checklist templates (`TPL`, `tplHome / tplMenu`):** the Templates button on the task panel's checklist saves the current steps under a name, or adds a saved template's steps (skipping ones already there). Stored as `templates:[{id,name,steps}]` on the task's client, or on the job when the task has no client.
